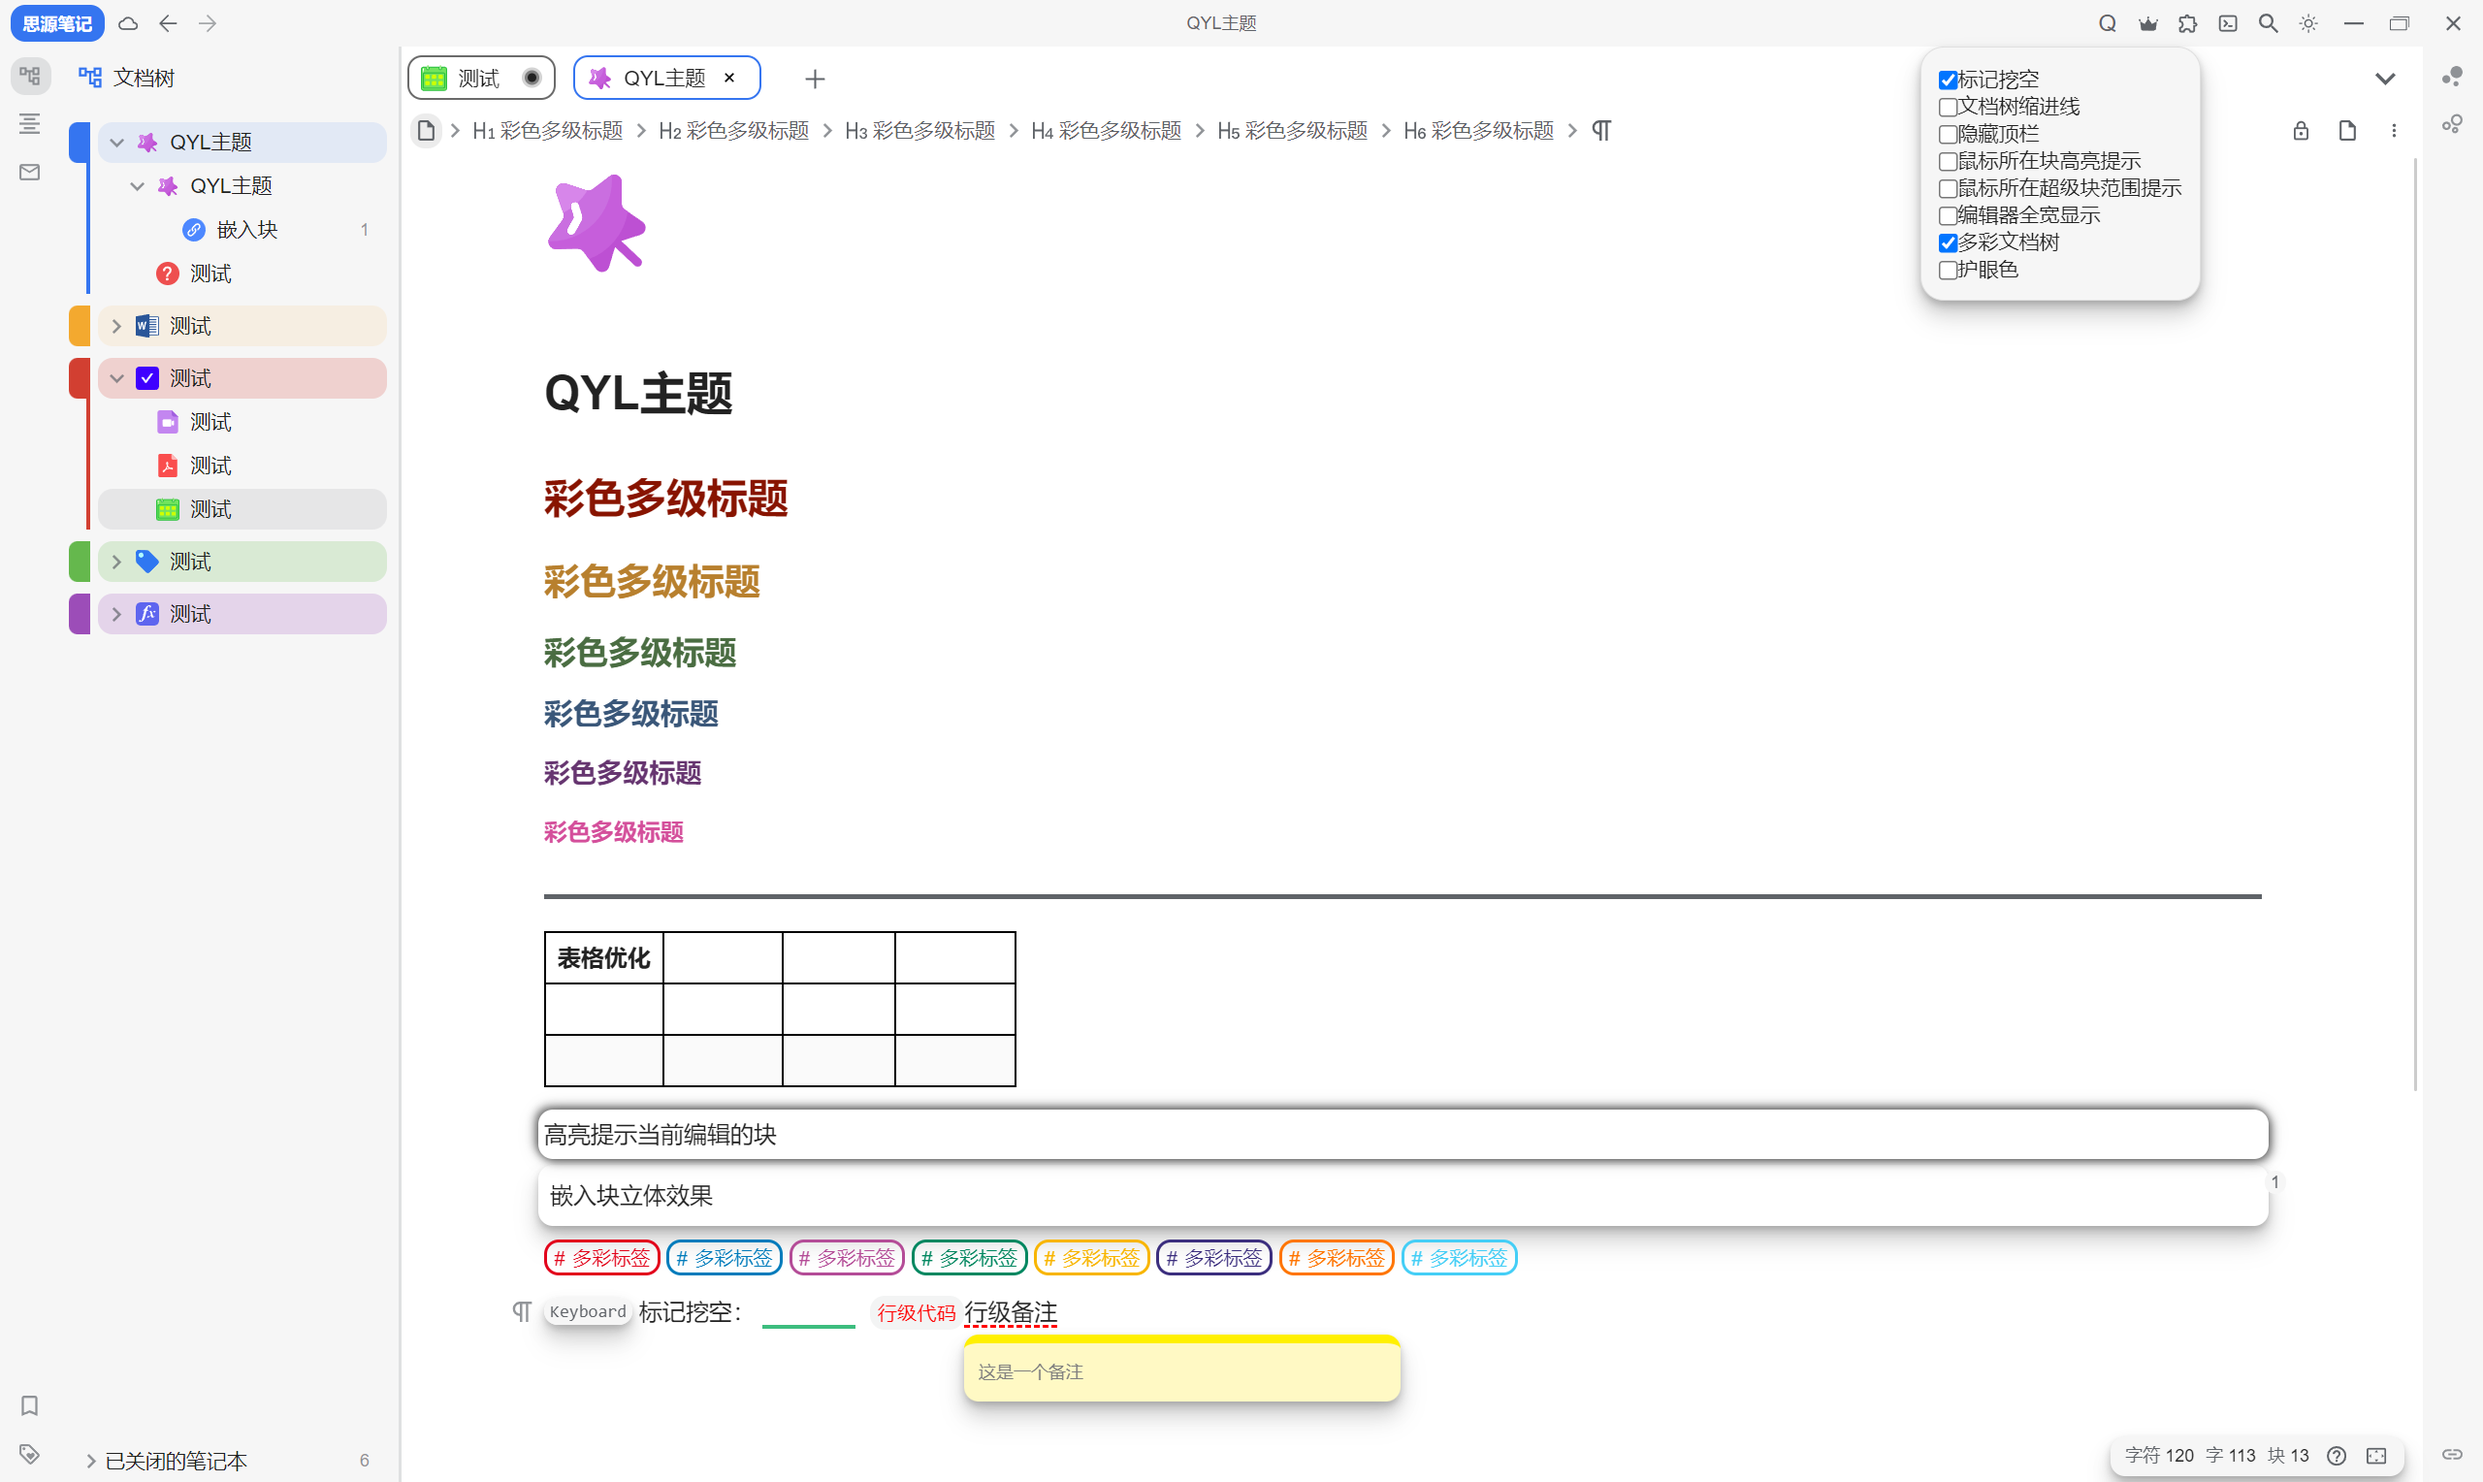
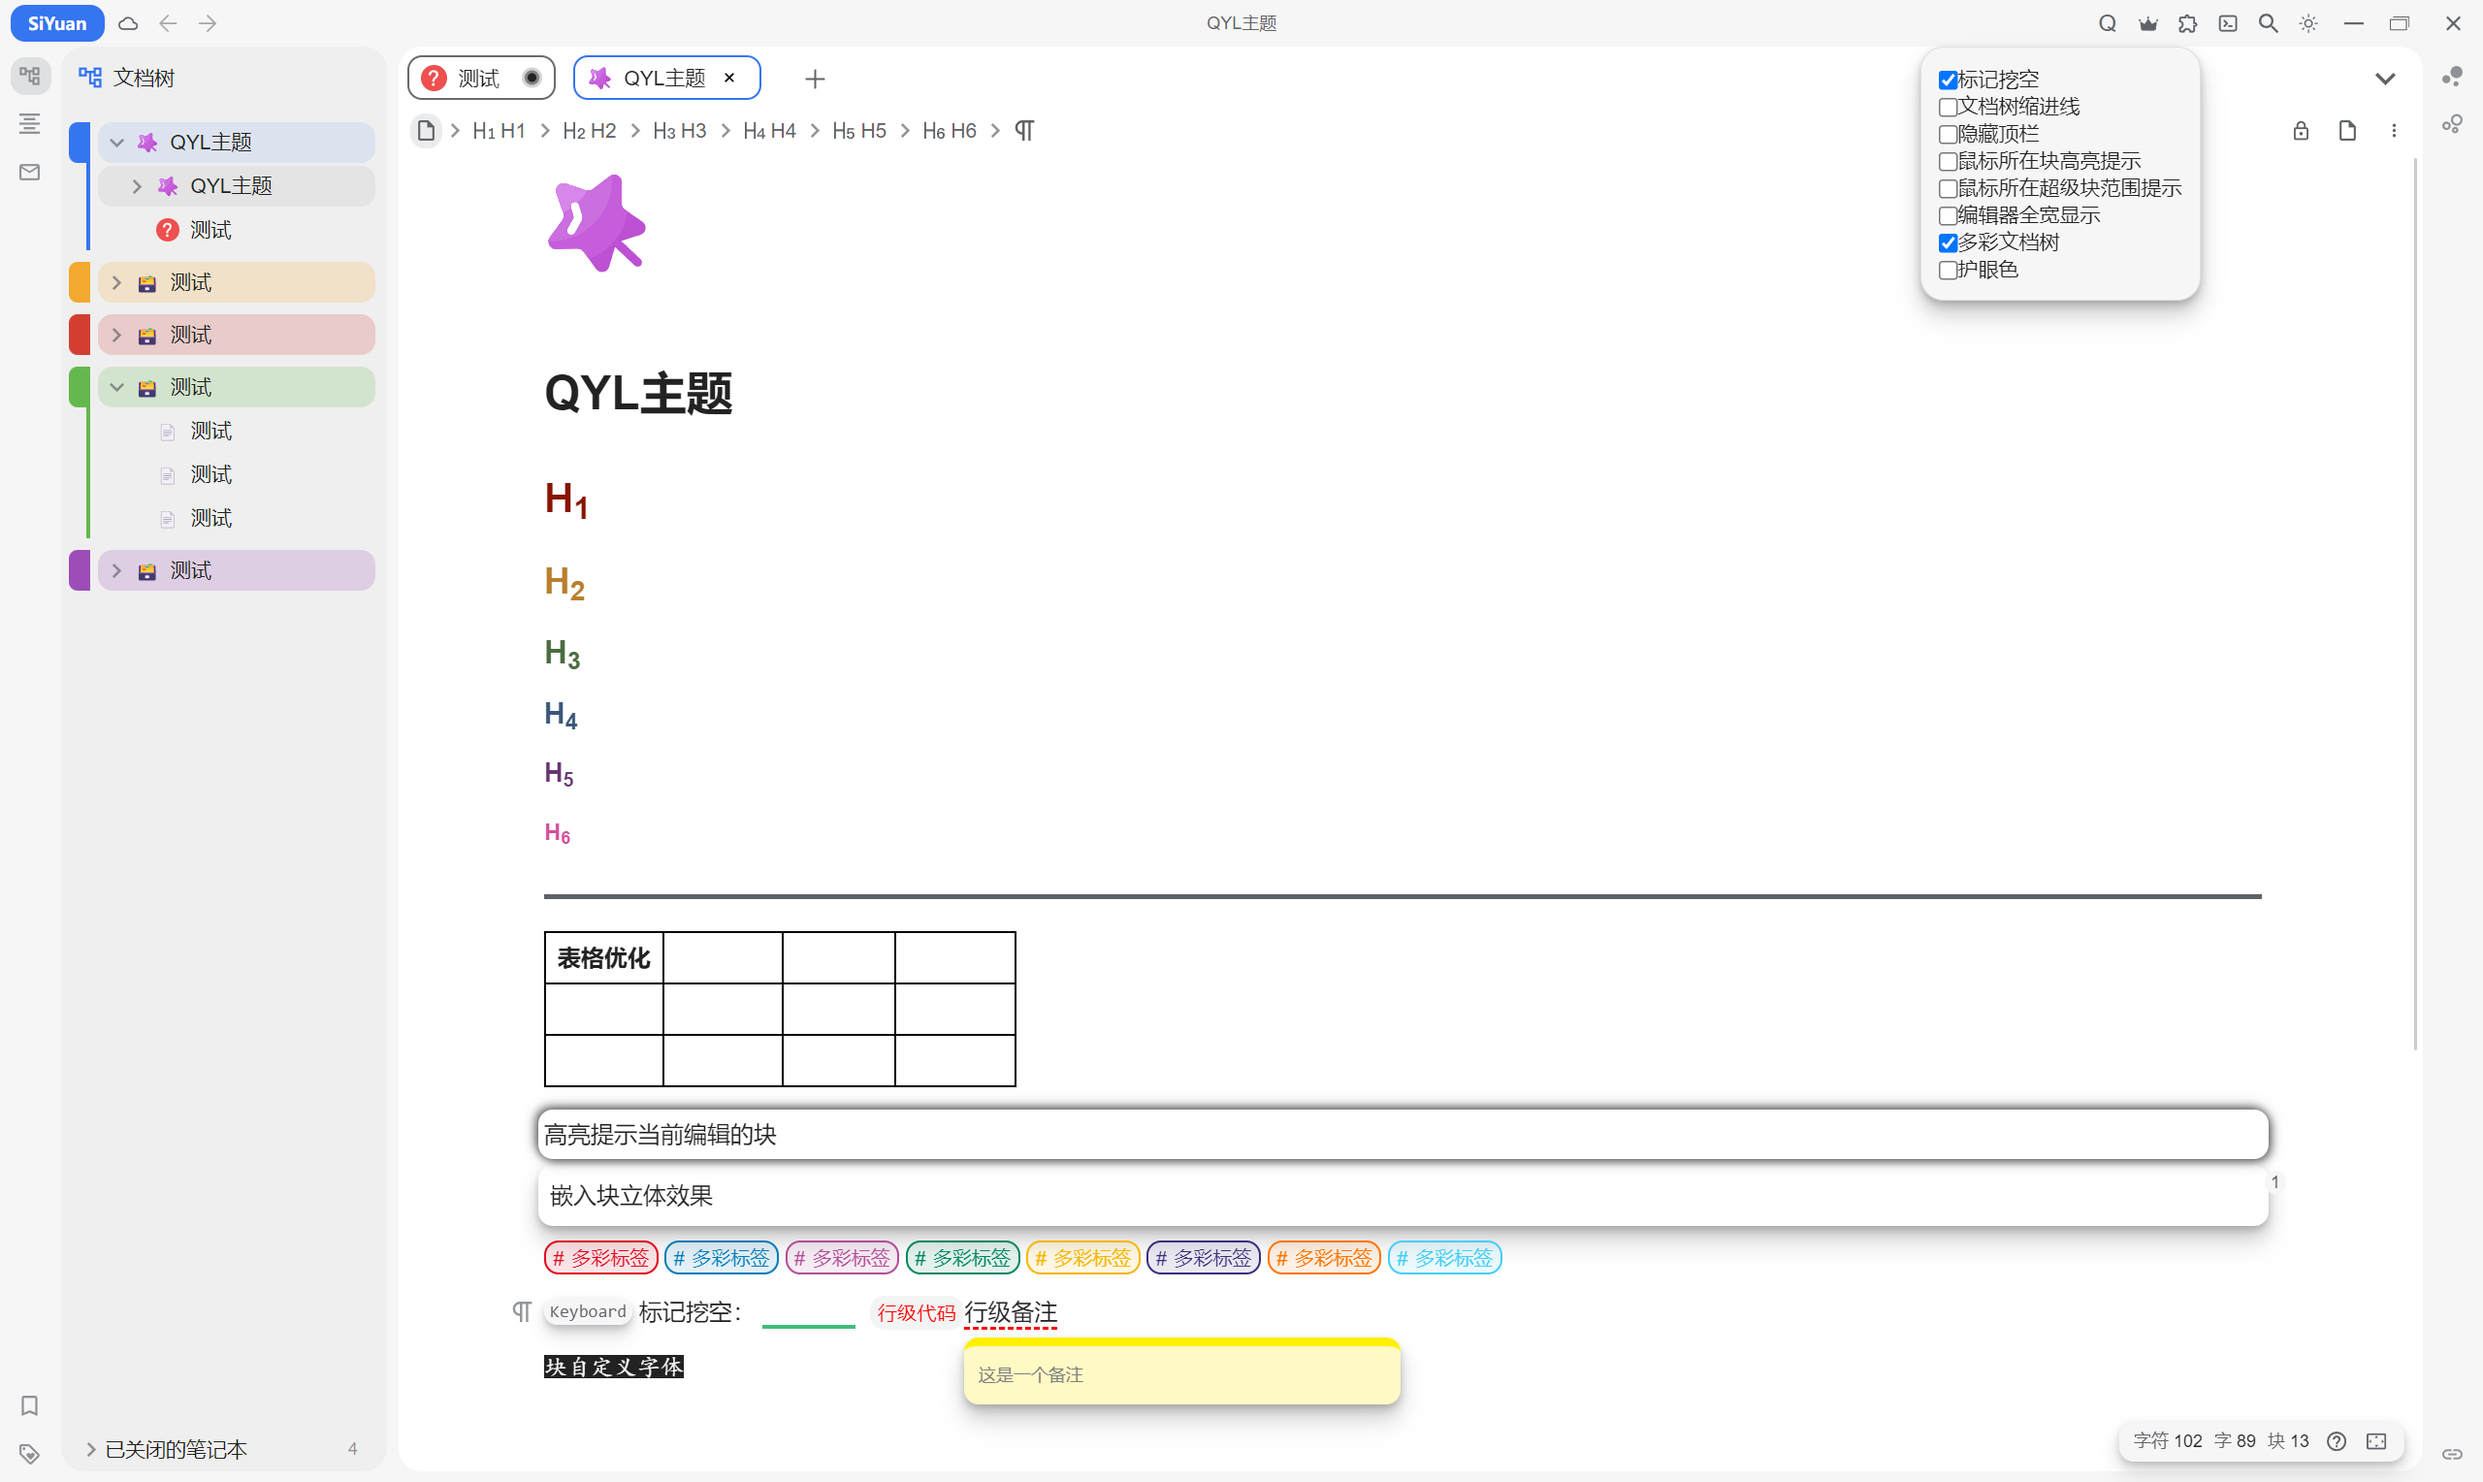
Add files via upload

diff --git a/theme.css b/theme.css
@@ -15,6 +15,7 @@
     --b3-theme-notfocus: #6a6a6a;
     --b3-protyle-inline-mark-background: rgb(61, 189, 127, 0.3);/* 标记色 */
     --hovercurrent: rgb(223, 224, 225, 0.7);
+    --b3-theme-filetree: rgba(211, 211, 211, 0.2);
 
     /* 文字颜色 */
     --b3-theme-on-primary: #fff;
@@ -36,6 +37,7 @@
     --b3-border-color: var(--b3-theme-surface-lighter);
     --b3-border-radius: 10px;
     --b3-border-radius-b: 10px;
+    --b3-border-radius-q: 16px;
 
     /* 容器阴影 */
     --b3-point-shadow: 0 2px 4px rgba(0, 0, 0, 0.1), 0 4px 6px rgba(0, 0, 0, 0.1), 0 8px 12px rgba(0, 0, 0, 0.1), 0 12px 18px rgba(0, 0, 0, 0.1);
@@ -145,7 +147,7 @@ th,td {
     #status {
         position: fixed;
         right: 55px !important;
-        bottom: 5px;
+        bottom: 15px;
         border-radius: var(--b3-border-radius);
         height: 27px !important;
         overflow: hidden;
@@ -155,7 +157,7 @@ th,td {
         display: flex;
         align-items: center;
         transition: 0.5s;
-        box-shadow: var(--b3-dialog-shadow);
+        box-shadow: 0 2px 4px rgba(0, 0, 0, 0.1), 0 4px 8px rgba(0, 0, 0, 0.1), 0 8px 16px rgba(0, 0, 0, 0.1);
         user-select: none;
     }
 
@@ -245,10 +247,11 @@ li.item.item--readonly {
 /* 标签 */
 .protyle-wysiwyg [data-node-id] span[data-type~=tag]:nth-of-type(8n+1) {
     border-radius: var(--b3-border-radius);
-    border: 2px solid #e2041b;
+    border: 1.5px solid #e2041b;
     padding: 3px 5px;
     color: #e2041b;
     font-size: smaller;
+    background-color: rgba(226, 4, 26, 0.1);
 }
 .protyle-wysiwyg [data-node-id] span[data-type~=tag]:nth-of-type(8n+1)::before {
     content: "#";
@@ -258,14 +261,15 @@ li.item.item--readonly {
     top: 0.5px;
 }
 .protyle-wysiwyg [data-node-id] span[data-type~=tag]:nth-of-type(8n+1):hover {
-    background-color: rgba(226, 4, 26, 0.1);
+    background-color: rgba(226, 4, 26, 0.3);
 }
 .protyle-wysiwyg [data-node-id] span[data-type~=tag]:nth-of-type(8n+2) {
     border-radius: var(--b3-border-radius);
-    border: 2px solid #007bbb;
+    border: 1.5px solid #007bbb;
     padding: 3px 5px;
     color: #007bbb;
     font-size: smaller;
+    background-color: rgba(0, 121, 187, 0.1);
 }
 .protyle-wysiwyg [data-node-id] span[data-type~=tag]:nth-of-type(8n+2)::before {
     content: "#";
@@ -275,14 +279,15 @@ li.item.item--readonly {
     top: 0.5px;
 }
 .protyle-wysiwyg [data-node-id] span[data-type~=tag]:nth-of-type(8n+2):hover {
-    background-color: rgba(0, 121, 187, 0.1);
+    background-color: rgba(0, 121, 187, 0.3);
 }
 .protyle-wysiwyg [data-node-id] span[data-type~=tag]:nth-of-type(8n+3) {
     border-radius: var(--b3-border-radius);
-    border: 2px solid #b44c97;
+    border: 1.5px solid #b44c97;
     padding: 3px 5px;
     color: #b44c97;
     font-size: smaller;
+    background-color: rgba(180, 76, 151, 0.1);
 }
 .protyle-wysiwyg [data-node-id] span[data-type~=tag]:nth-of-type(8n+3)::before {
     content: "#";
@@ -292,14 +297,15 @@ li.item.item--readonly {
     top: 0.5px;
 }
 .protyle-wysiwyg [data-node-id] span[data-type~=tag]:nth-of-type(8n+3):hover {
-    background-color: rgba(180, 76, 151, 0.1);
+    background-color: rgba(180, 76, 151, 0.3);
 }
 .protyle-wysiwyg [data-node-id] span[data-type~=tag]:nth-of-type(8n+4) {
     border-radius: var(--b3-border-radius);
-    border: 2px solid #028760;
+    border: 1.5px solid #028760;
     padding: 3px 5px;
     color: #028760;
     font-size: smaller;
+    background-color: rgba(2, 135, 95, 0.1);
 }
 .protyle-wysiwyg [data-node-id] span[data-type~=tag]:nth-of-type(8n+4)::before {
     content: "#";
@@ -309,14 +315,15 @@ li.item.item--readonly {
     top: 0.5px;
 }
 .protyle-wysiwyg [data-node-id] span[data-type~=tag]:nth-of-type(8n+4):hover {
-    background-color: rgba(2, 135, 95, 0.1);
+    background-color: rgba(2, 135, 95, 0.3);
 }
 .protyle-wysiwyg [data-node-id] span[data-type~=tag]:nth-of-type(8n+5) {
     border-radius: var(--b3-border-radius);
-    border: 2px solid #f8b500;
+    border: 1.5px solid #f8b500;
     padding: 3px 5px;
     color: #f8b500;
     font-size: smaller;
+    background-color: rgba(248, 182, 0, 0.1);
 }
 .protyle-wysiwyg [data-node-id] span[data-type~=tag]:nth-of-type(8n+5)::before {
     content: "#";
@@ -326,14 +333,15 @@ li.item.item--readonly {
     top: 0.5px;
 }
 .protyle-wysiwyg [data-node-id] span[data-type~=tag]:nth-of-type(8n+5):hover {
-    background-color: rgba(248, 182, 0, 0.1);
+    background-color: rgba(248, 182, 0, 0.3);
 }
 .protyle-wysiwyg [data-node-id] span[data-type~=tag]:nth-of-type(8n+6) {
     border-radius: var(--b3-border-radius);
-    border: 2px solid #3b2e7e;
+    border: 1.5px solid #3b2e7e;
     padding: 3px 5px;
     color: #3b2e7e;
     font-size: smaller;
+    background-color: rgba(59, 46, 126, 0.1);
 }
 .protyle-wysiwyg [data-node-id] span[data-type~=tag]:nth-of-type(8n+6)::before {
     content: "#";
@@ -343,14 +351,15 @@ li.item.item--readonly {
     top: 0.5px;
 }
 .protyle-wysiwyg [data-node-id] span[data-type~=tag]:nth-of-type(8n+6):hover {
-    background-color: rgba(59, 46, 126, 0.1);
+    background-color: rgba(59, 46, 126, 0.3);
 }
 .protyle-wysiwyg [data-node-id] span[data-type~=tag]:nth-of-type(8n+7) {
     border-radius: var(--b3-border-radius);
-    border: 2px solid #ff7500;
+    border: 1.5px solid #ff7500;
     padding: 3px 5px;
     color: #ff7500;
     font-size: smaller;
+    background-color: rgba(255, 119, 0, 0.1);
 }
 .protyle-wysiwyg [data-node-id] span[data-type~=tag]:nth-of-type(8n+7)::before {
     content: "#";
@@ -360,14 +369,15 @@ li.item.item--readonly {
     top: 0.5px;
 }
 .protyle-wysiwyg [data-node-id] span[data-type~=tag]:nth-of-type(8n+7):hover {
-    background-color: rgba(255, 119, 0, 0.1);
+    background-color: rgba(255, 119, 0, 0.3);
 }
 .protyle-wysiwyg [data-node-id] span[data-type~=tag]:nth-of-type(8n) {
     border-radius: var(--b3-border-radius);
-    border: 2px solid #44cef6;
+    border: 1.5px solid #44cef6;
     padding: 3px 5px;
     color: #44cef6;
     font-size: smaller;
+    background-color: rgba(68, 207, 246, 0.1);
 }
 .protyle-wysiwyg [data-node-id] span[data-type~=tag]:nth-of-type(8n)::before {
     content: "#";
@@ -377,7 +387,7 @@ li.item.item--readonly {
     top: 0.5px;
 }
 .protyle-wysiwyg [data-node-id] span[data-type~=tag]:nth-of-type(8n):hover {
-    background-color: rgba(68, 207, 246, 0.1);
+    background-color: rgba(68, 207, 246, 0.3);
 }
 
 /* 圆形关闭键 */
@@ -426,6 +436,28 @@ li.item.item--readonly {
 }
 
 /* 界面整体优化 */
+body:not(.body--mobile,.body--window) #layouts {
+    background-color: var(--b3-theme-surface);
+    .layout__center .layout-tab-container {
+        border-bottom-left-radius: var(--b3-border-radius-q); 
+        border-bottom-right-radius: var(--b3-border-radius-q);
+        margin-bottom: 8px;
+    }
+}
+.layout__dockl,.layout__dockr,.layout__dockb {
+    .layout-tab-container { 
+        border-radius: var(--b3-border-radius-q); 
+        background-color: var(--b3-theme-filetree);
+        margin-bottom: 8px;
+        margin-right: 8px;
+    }
+}
+.layout-tab-bar.layout-tab-bar--readonly.fn__flex-1{
+    border-top-right-radius: var(--b3-border-radius-q);
+}
+.fn__flex.layout-tab-bar {  
+    border-top-left-radius: var(--b3-border-radius-q);
+}
 #toolbar {
     border: none;
 }
@@ -436,7 +468,7 @@ li.item.item--readonly {
     border: none;
 }
 .layout__resize::after {
-    background-color: var(--b3-theme-background-light);
+    background-color: rgba(255, 0, 0, 0);
 }
 .layout__resize--lr::after {
     width: 2px;
@@ -816,10 +848,10 @@ li.b3-list-item.b3-list-item--hide-action[data-subtype="h6"] .b3-list-item__grap
     font-size: 105%;
 }
 .av__cell {
-    border-right: 1.5px solid var(--b3-theme-surface-lighter);
+    border-right: 0.5px solid var(--b3-theme-surface-lighter);
 }
 .av__row {
-    border-bottom: 1.5px solid var(--b3-theme-surface-lighter);
+    border-bottom: 0.5px solid var(--b3-theme-surface-lighter);
 }
 .av__views {
     box-shadow: none;
@@ -828,10 +860,9 @@ li.b3-list-item.b3-list-item--hide-action[data-subtype="h6"] .b3-list-item__grap
     margin-top: 5px;
     margin-bottom: 18px;
     padding-left: 7px;
-    border-bottom: 1.5px solid var(--b3-theme-surface-lighter);
 }
 .av__cell .b3-chip {
-    border: 1.5px solid !important;
+    border: 0.5px solid !important;
 }
 .protyle-wysiwyg[data-readonly=true] .av .av__celltext--url, .av__celltext.av__celltext--url, .av__celltext--url.b3-chip {
     background-color: rgba(38, 187, 170, 0.1);

diff --git a/theme.js b/theme.js
@@ -594,7 +594,7 @@ div.sy__file ul:not(ul ul):not(ul.b3-list.fn__flex-column):nth-of-type(6n+2)::be
     background-color: var(--b3-theme-secondary);
 }
 .b3-list:nth-of-type(6n+2)>[data-type="navigation-root"] {
-    background-color: rgba(243, 168, 47, 0.1) !important;
+    background-color: rgba(243, 168, 47, 0.15) !important;
 }
 .b3-list:nth-of-type(6n+3)>[data-type="navigation-root"]::before {
     background-color:var(--b3-theme-error) !important;
@@ -698,7 +698,7 @@ function enableeyescare() {
             --b3-list-icon-hover: rgba(255, 255, 255, 0.65);
             --b3-list-hover: rgba(255, 255, 255, 0.65);
             --b3-theme-surface-lighter: rgba(255, 255, 255, 0.65);
-            
+            --b3-theme-filetree: #E1E3FA
         }
         .pdf__outer .textLayer {
             background-color:rgba(220, 226, 241, 0.8);

diff --git a/README_zh_CN.md b/README_zh_CN.md
@@ -16,6 +16,9 @@
 * 给任意块添加自定义属性`font-family`，可以自定义该块的字体（本机存在的字体才生效），目前支持设置为`宋体` `幼圆` `黑体` `微软雅黑` `新宋体` `楷体` `隶书` `仿宋` `华文宋体` `华文中宋` `华文仿宋` `华文彩云` `华文新魏` `华文楷体` `华文琥珀` `华文细黑` `华文行楷` `华文隶书` `方正姚体` `方正舒体` `思源宋体` `思源黑体` `苹方` `Times New Roman`（:loudspeaker:**如需支持其他字体，或者其他中文西文字体组合，可以反馈给我**）
 * 其他样式改动......
 
+## v1.2.7
+* 主界面整体优化
+
 ## v1.2.6
 * 优化了标题折叠样式
 * 增加自定义属性'blankblock-remind'，可以设置为`0`来屏蔽"空空如也"的提示，设置为`1`或者删除此自定义属性，恢复提示
